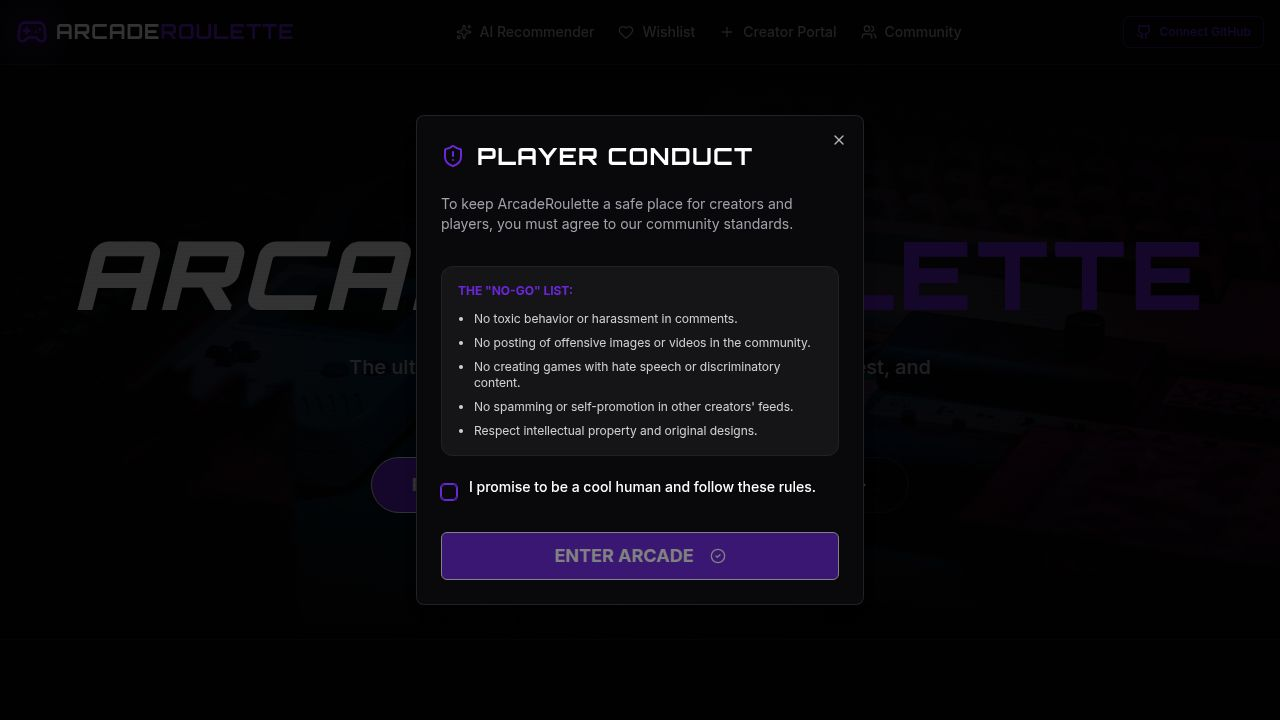
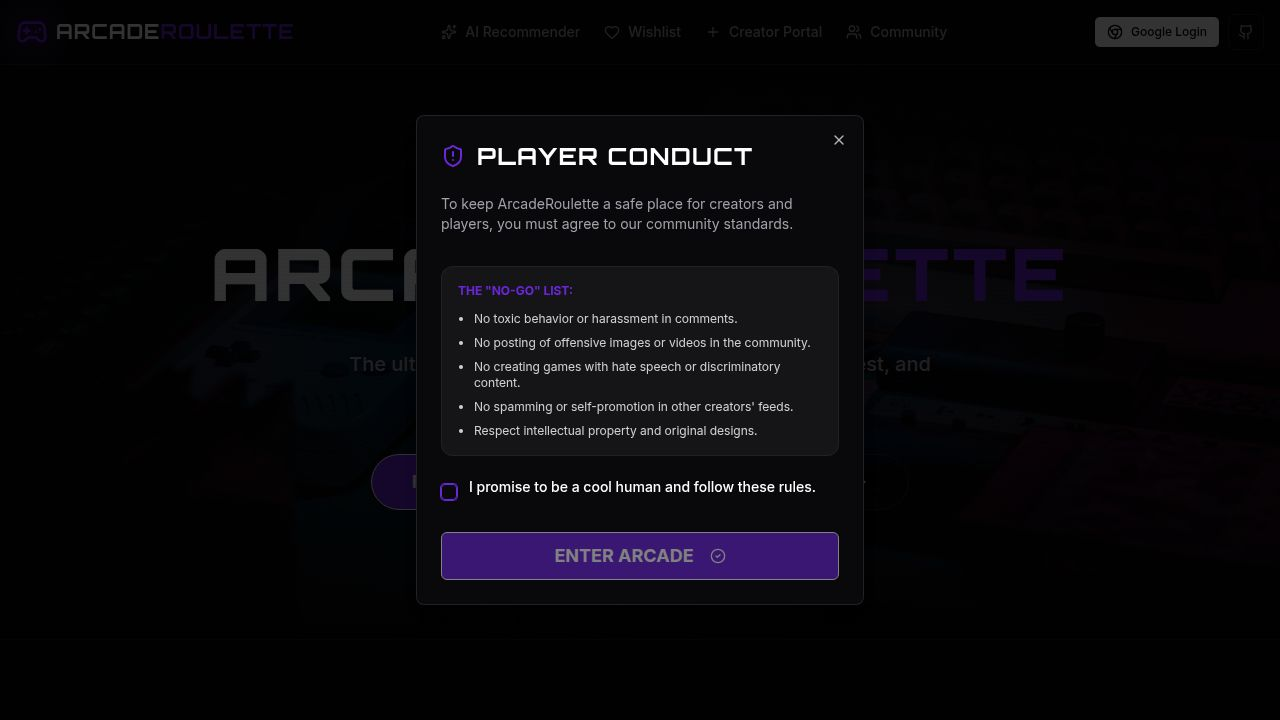
Make Google the primary sign-in method and add interactive feedback
Update header buttons to prioritize Google login with a distinct style, and transition GitHub to an icon-only button while retaining its functionality.

Replit-Commit-Author: Agent
Replit-Commit-Session-Id: 141ac0ed-2cbe-4d81-8fe5-990237bd4621
Replit-Commit-Checkpoint-Type: full_checkpoint
Replit-Commit-Event-Id: d3a30390-4089-4d1e-825b-0fe38f02862f
Replit-Commit-Screenshot-Url: https://storage.googleapis.com/screenshot-production-us-central1/0f1037a4-894c-4ec4-885a-6a4977ecc8be/141ac0ed-2cbe-4d81-8fe5-990237bd4621/uZclEvG
Replit-Helium-Checkpoint-Created: true

Changed region(s): [[0.6562, 0.3361, 0.9375, 0.4278], [0.0625, 0.3361, 0.3438, 0.4278], [0.8438, 0.0, 0.9688, 0.0917]]

diff --git a/client/src/components/layout.tsx b/client/src/components/layout.tsx
@@ -1,5 +1,5 @@
 import { Link, useLocation } from "wouter";
-import { Gamepad2, Heart, Plus, User, Search, Sparkles, Github, Users } from "lucide-react";
+import { Gamepad2, Heart, Plus, User, Search, Sparkles, Github, Users, Chrome } from "lucide-react";
 import { Button } from "@/components/ui/button";
 import { useState } from "react";
 import { useToast } from "@/hooks/use-toast";
@@ -8,6 +8,16 @@ export function Layout({ children }: { children: React.ReactNode }) {
   const [location] = useLocation();
   const { toast } = useToast();
   const [isConnected, setIsConnected] = useState(false);
+  const [isGoogleConnected, setIsGoogleConnected] = useState(false);
+
+  const handleGoogleConnect = () => {
+    setIsGoogleConnected(!isGoogleConnected);
+    toast({
+      title: isGoogleConnected ? "Google Disconnected" : "Connected to Google",
+      description: isGoogleConnected ? "Your Google account has been unlinked." : "Welcome back! Your preferences are now synced via Google.",
+      className: isGoogleConnected ? "" : "bg-white text-black border-none"
+    });
+  };
 
   const handleGithubConnect = () => {
     setIsConnected(!isConnected);
@@ -57,15 +67,24 @@ export function Layout({ children }: { children: React.ReactNode }) {
             </Link>
           </nav>
 
-          <div className="flex items-center gap-4">
+          <div className="flex items-center gap-2">
+            <Button 
+              variant={isGoogleConnected ? "secondary" : "default"} 
+              size="sm" 
+              onClick={handleGoogleConnect}
+              className={`hidden sm:flex items-center gap-2 transition-all ${!isGoogleConnected ? 'bg-white text-black hover:bg-white/90' : 'bg-blue-500/10 text-blue-400 border border-blue-500/20'}`}
+            >
+              <Chrome className="w-4 h-4" />
+              {isGoogleConnected ? "Connected" : "Google Login"}
+            </Button>
             <Button 
               variant={isConnected ? "secondary" : "outline"} 
-              size="sm" 
+              size="icon" 
               onClick={handleGithubConnect}
-              className={`hidden sm:flex items-center gap-2 transition-all ${!isConnected ? 'border-primary/50 text-primary hover:bg-primary hover:text-white' : 'bg-green-500/10 text-green-500 border-green-500/20'}`}
+              className={`hidden sm:flex items-center justify-center transition-all h-9 w-9 ${!isConnected ? 'border-white/10 text-muted-foreground hover:text-white' : 'bg-green-500/10 text-green-500 border-green-500/20'}`}
+              title={isConnected ? "GitHub Connected" : "Connect GitHub"}
             >
               <Github className="w-4 h-4" />
-              {isConnected ? "Connected" : "Connect GitHub"}
             </Button>
              <Button variant="ghost" size="icon" className="sm:hidden text-muted-foreground">
               <User className="w-5 h-5" />
